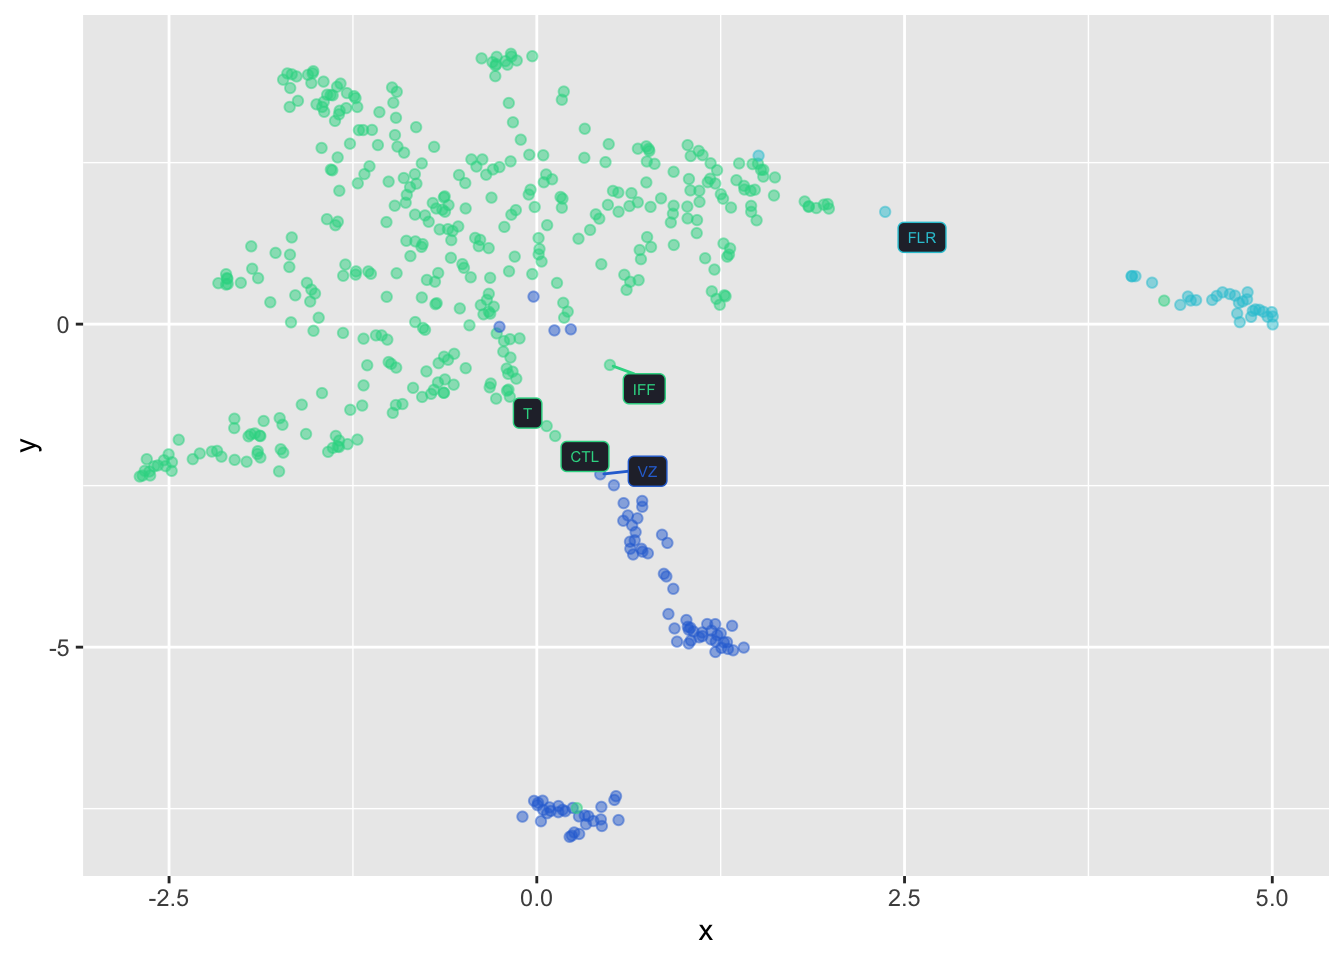
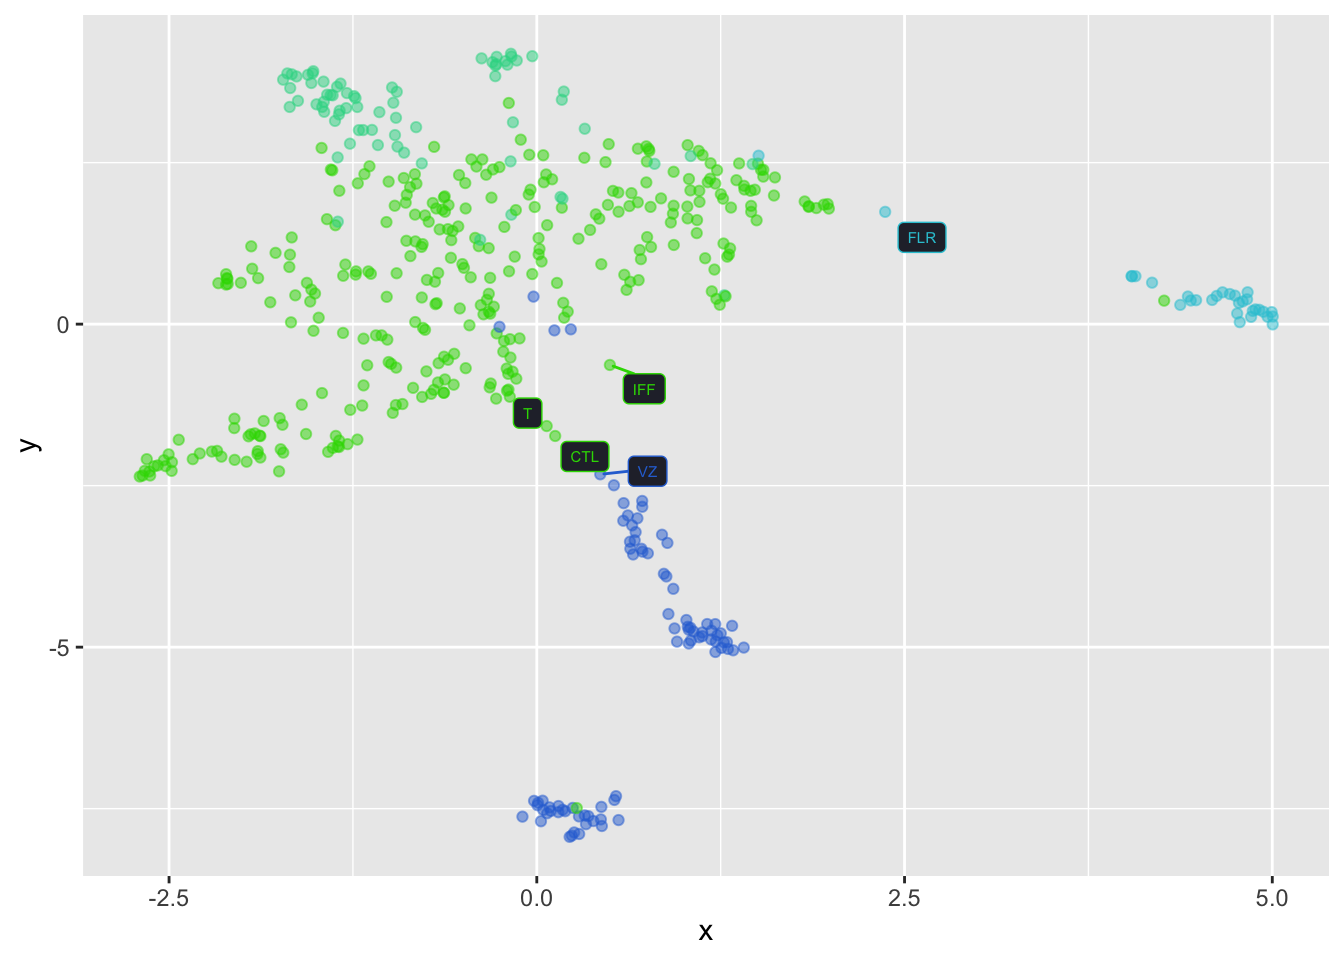
Challenge1

diff --git a/_site/content/01_journal/challenge_1.html b/_site/content/01_journal/challenge_1.html
@@ -333,7 +333,7 @@ code span.wa { color: #60a0b0; font-weight: bold; font-style: italic; } /* Warni
 </div>
 </section><section id="combination-of-k-means-and-umap" class="level1" data-number="7"><h1 data-number="7">
 <span class="header-section-number">7</span> Combination of K-Means and UMAP</h1>
-<div class="cell" data-hash="challenge_1_cache/html/unnamed-chunk-7_20cc22aebb0b0328ec0968a2ee532850">
+<div class="cell" data-hash="challenge_1_cache/html/unnamed-chunk-7_84fca904e2a9739528a2a2573d50f866">
 <div class="sourceCode cell-code" id="cb10"><pre class="sourceCode numberSource r number-lines code-with-copy"><code class="sourceCode r"><span id="cb10-1"><a href="#cb10-1"></a>umap_kmeans_results_tbl <span class="ot">&lt;-</span> kmeans_obj <span class="sc">%&gt;%</span> </span>
 <span id="cb10-2"><a href="#cb10-2"></a>  <span class="fu">augment</span>(stock_date_matrix_tbl) <span class="sc">%&gt;%</span> </span>
 <span id="cb10-3"><a href="#cb10-3"></a>  <span class="fu">select</span>(symbol, .cluster) <span class="sc">%&gt;%</span> </span>
@@ -353,7 +353,7 @@ code span.wa { color: #60a0b0; font-weight: bold; font-style: italic; } /* Warni
 <span id="cb12-8"><a href="#cb12-8"></a>  </span>
 <span id="cb12-9"><a href="#cb12-9"></a><span class="co"># Formatting</span></span>
 <span id="cb12-10"><a href="#cb12-10"></a></span>
-<span id="cb12-11"><a href="#cb12-11"></a>  <span class="fu">scale_color_manual</span>(<span class="at">values=</span><span class="fu">c</span>(<span class="st">"#2d72d6"</span>, <span class="st">"#2dc6d6"</span>, <span class="st">"#2dd692"</span>, <span class="st">"#2dd692"</span>)) <span class="sc">+</span> </span>
+<span id="cb12-11"><a href="#cb12-11"></a>  <span class="fu">scale_color_manual</span>(<span class="at">values=</span><span class="fu">c</span>(<span class="st">"#2d72d6"</span>, <span class="st">"#2dc6d6"</span>, <span class="st">"#2dd692"</span>, <span class="st">"#2dd800"</span>)) <span class="sc">+</span> </span>
 <span id="cb12-12"><a href="#cb12-12"></a>  <span class="fu">theme</span>(<span class="at">legend.position =</span> <span class="st">"none"</span>)</span></code><button title="Copy to Clipboard" class="code-copy-button"><i class="bi"></i></button></pre></div>
 <div class="cell-output cell-output-stderr">
 <pre><code>#&gt; Warning: ggrepel: 497 unlabeled data points (too many overlaps). Consider
@@ -617,7 +617,7 @@ window.document.addEventListener("DOMContentLoaded", function (event) {
 });
 </script>
 </div> <!-- /content -->
-<script>var lightboxQuarto = GLightbox({"selector":".lightbox","closeEffect":"zoom","openEffect":"zoom","descPosition":"bottom","loop":true});</script>
+<script>var lightboxQuarto = GLightbox({"openEffect":"zoom","loop":true,"closeEffect":"zoom","descPosition":"bottom","selector":".lightbox"});</script>
 
 
 </body></html>
